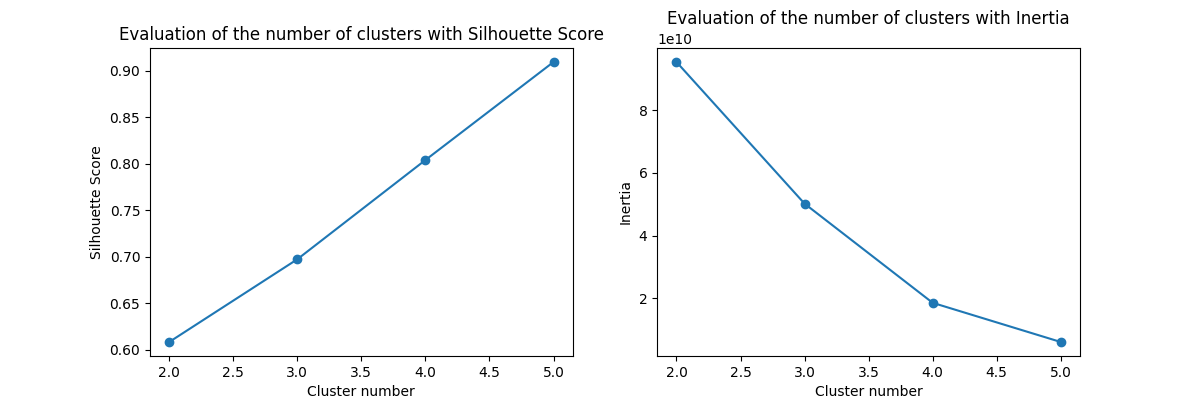
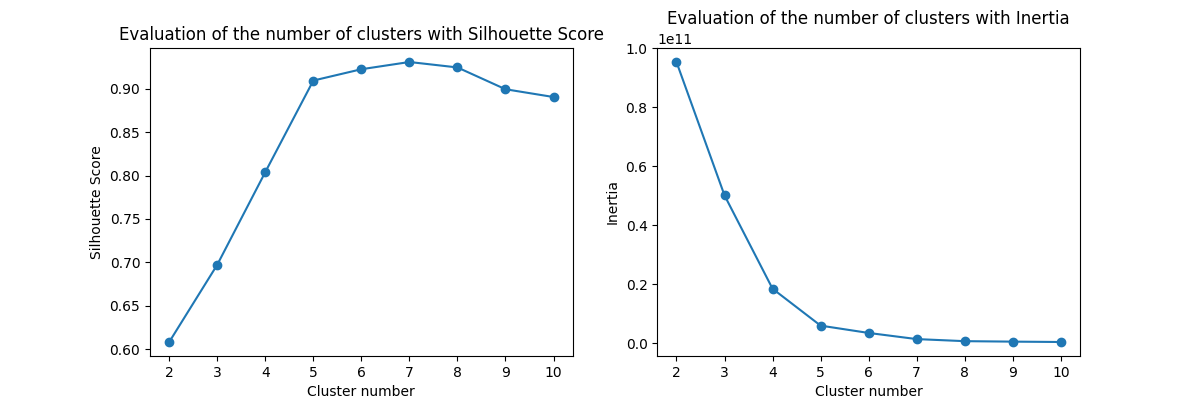
modificato unsupervised

diff --git a/src/unsupervised_learning.py b/src/unsupervised_learning.py
@@ -17,7 +17,7 @@ def adjust_kmeans_labels(labels):
 
 
 def kmeans_clustering(X, n_clusters=3):
-    num_clusters_to_try = [2, 3, 4, 5]
+    num_clusters_to_try = [2, 3, 4, 5, 6, 7, 8, 9, 10]
 
     silhouette_scores = []
     inertia_values = []
